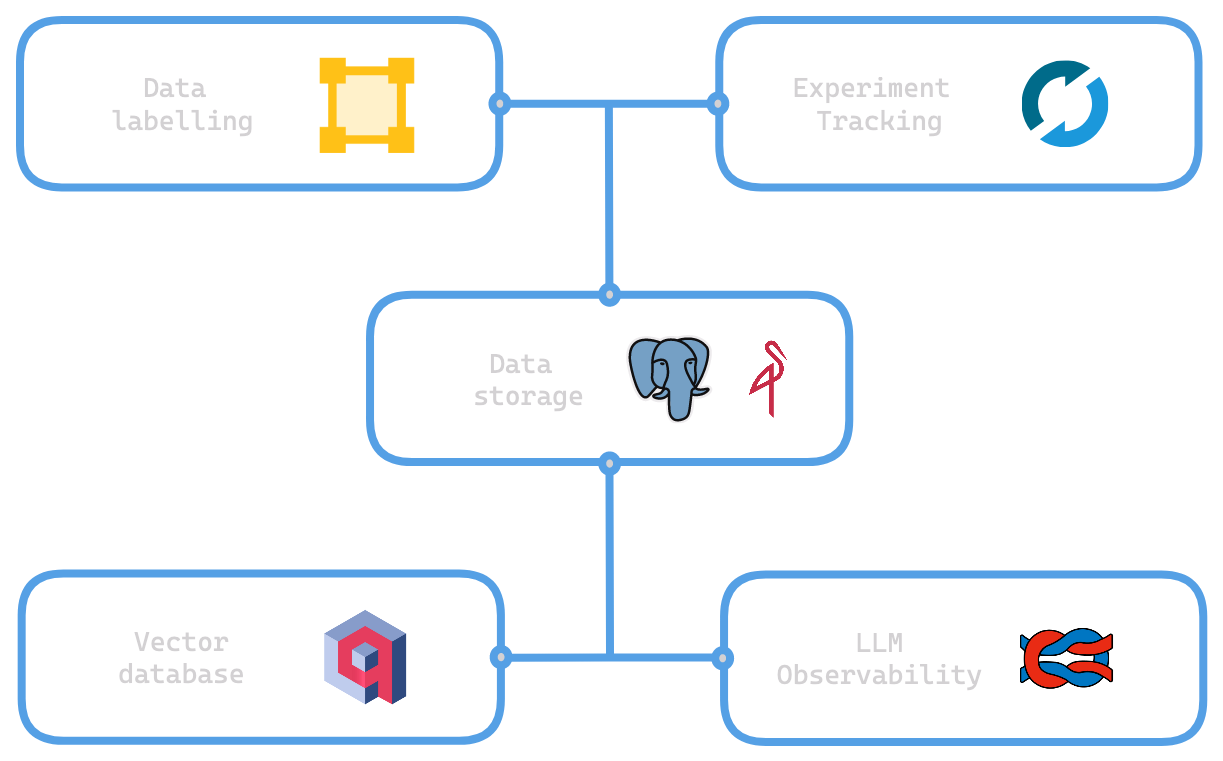
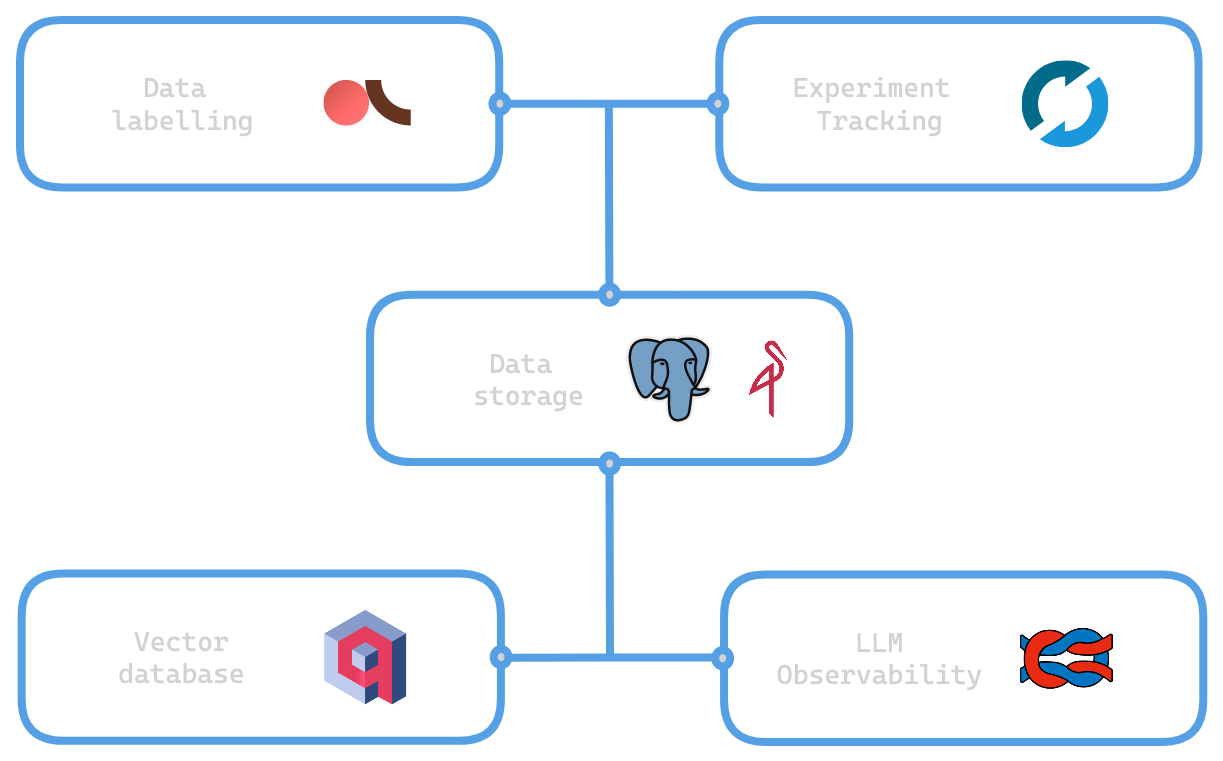
Adding argilla as default annotation tool

Changed region(s): [[0.2486, 0.0604, 0.3418, 0.2116]]

diff --git a/README.md b/README.md
@@ -31,7 +31,7 @@ Once the applications have started and are ready, you can access them on the fol
 - [PostgreSQL (SQL)](https://github.com/postgres/postgres)
 - [MinIO (object storage)](https://github.com/minio/minio)
 - [Qdrant (vector search)](https://github.com/qdrant/qdrant)
-- [Label Studio (data annotation)](https://github.com/HumanSignal/label-studio)
+- [Argilla (data annotation)](https://github.com/argilla-io/argilla)
 - [MLflow (experiment tracking & model registry)](https://github.com/mlflow/mlflow)
 - [Langfuse (LLM observability)](https://github.com/langfuse/langfuse)
 
